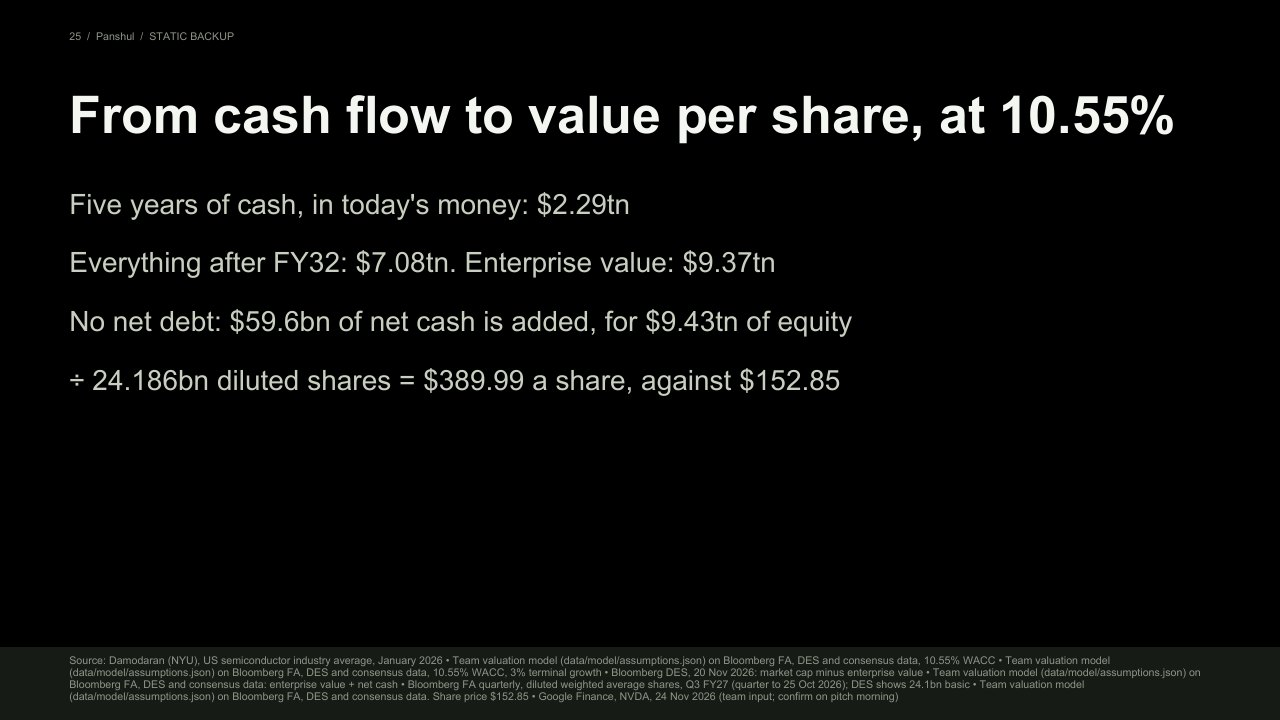
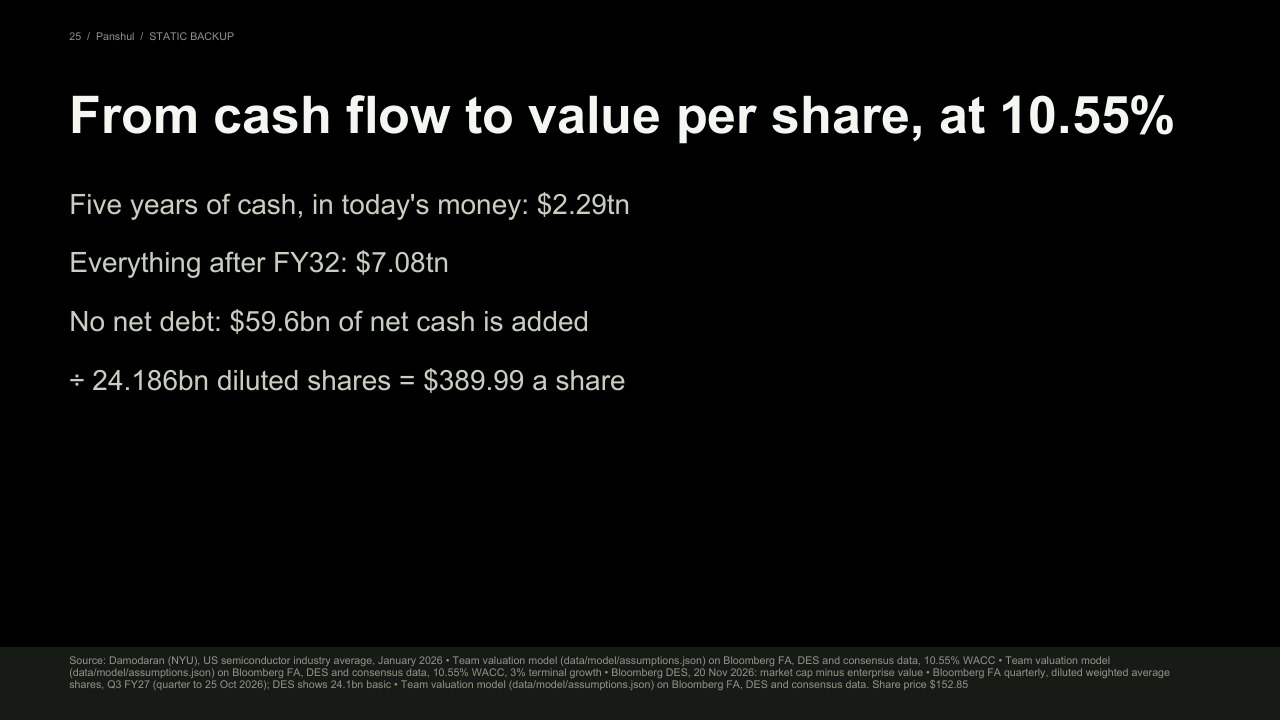
Bridge: shorter points, upside on its own line; script and backup regenerated

diff --git a/app/src/scenes/BridgeStack.tsx b/app/src/scenes/BridgeStack.tsx
@@ -78,11 +78,11 @@ export function BridgeStack({ stage, datasets = {} }: SceneProps) {
       )}
       {stage >= 4 && implied != null && price != null && (
         <g className="bs-share">
-          <rect className="bs-share-box" x={lx - 10} y={540} width={440} height={200} rx="10" />
+          <rect className="bs-share-box" x={lx - 10} y={540} width={440} height={212} rx="10" />
           <text className="bs-lab" x={lx + 10} y={578}>÷ {S('Diluted shares')} diluted shares</text>
           <text className="bs-per" x={lx + 10} y={642}>{S('Implied share price')}</text>
-          <text className="bs-up" x={lx + 260} y={642}>+{S('Upside')}</text>
-          <text className="bs-lab" x={lx + 10} y={690}>a share, against {S('Share price')} today</text>
+          <text className="bs-lab" x={lx + 10} y={684}>a share, against {S('Share price')} today</text>
+          <text className="bs-up" x={lx + 10} y={726}>+{S('Upside')} upside</text>
         </g>
       )}
     </svg>

diff --git a/docs/script/pitch-script-v9.md b/docs/script/pitch-script-v9.md
@@ -244,9 +244,9 @@ Here is the five-year DCF worksheet. For each year we take revenue, times that m
 Now we add it up. The next five years of cash, discounted at the industry rate, are worth $2.29tn today. Everything after 2032, the terminal value, is worth $7.08tn: about three quarters of the total. Together that is the enterprise value, $9.37tn. NVIDIA has no net debt: it holds more cash than debt, $59.6bn, so that is added, for $9.43tn of equity. Then we divide by the 24.186bn diluted shares, and get $389.99 a share, against a share price of $152.85.
 
 ▸ Five years of cash, in today's money: $2.29tn (on “next five”)
-▸ Everything after FY32: $7.08tn. Enterprise value: $9.37tn (on “everything”)
-▸ No net debt: $59.6bn of net cash is added, for $9.43tn of equity (on “more cash than debt”)
-▸ ÷ 24.186bn diluted shares = $389.99 a share, against $152.85 (on “divide”)
+▸ Everything after FY32: $7.08tn (on “everything”)
+▸ No net debt: $59.6bn of net cash is added (on “more cash than debt”)
+▸ ÷ 24.186bn diluted shares = $389.99 a share (on “divide”)
 
 ### three-rates: Base-case value per share at three discount rates
 *Panshul · starts on “we didn't”*
